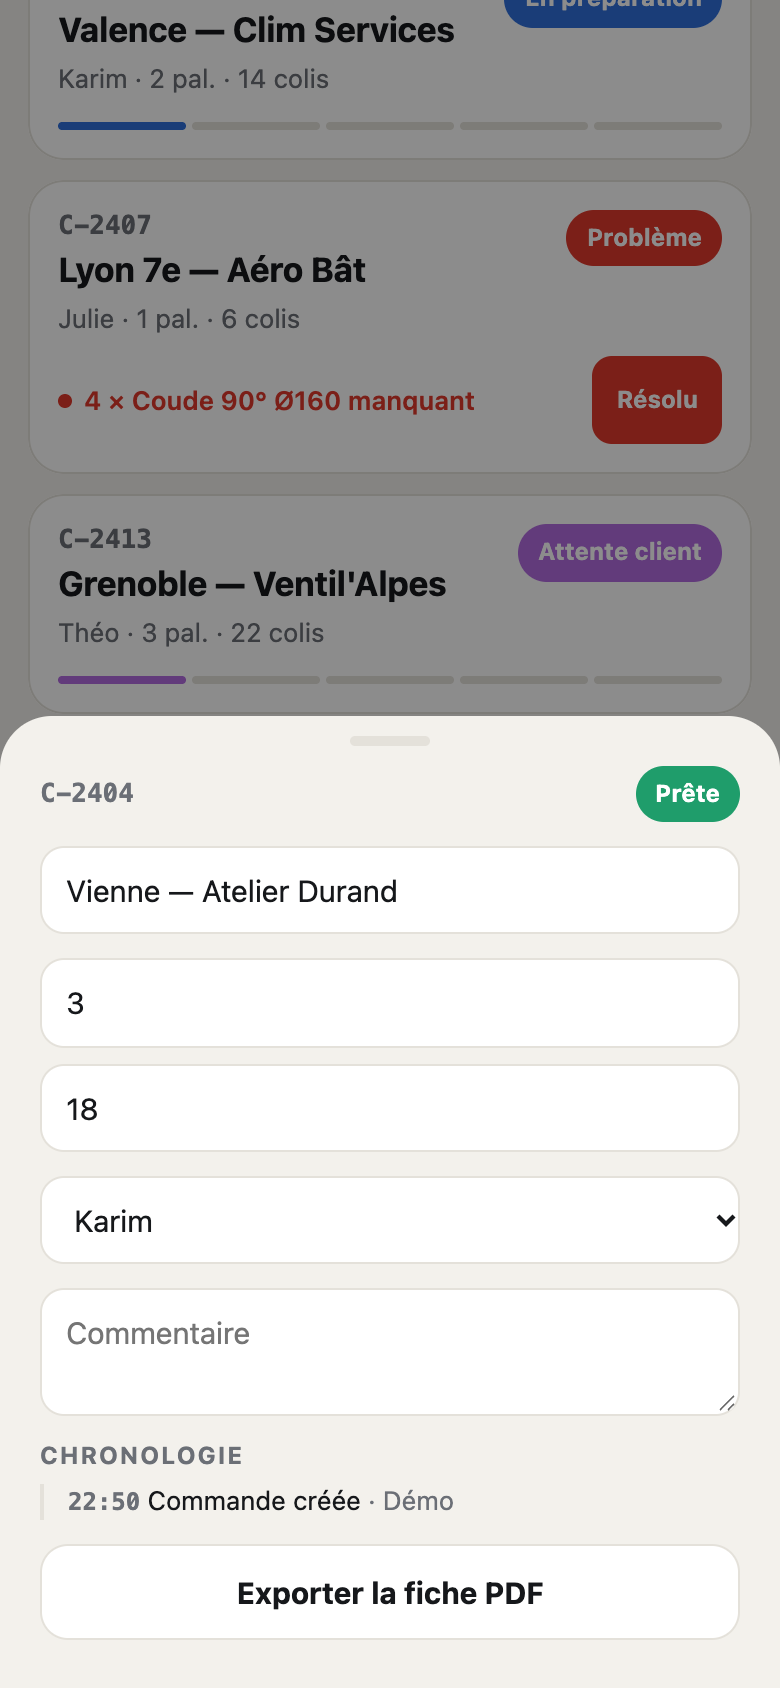
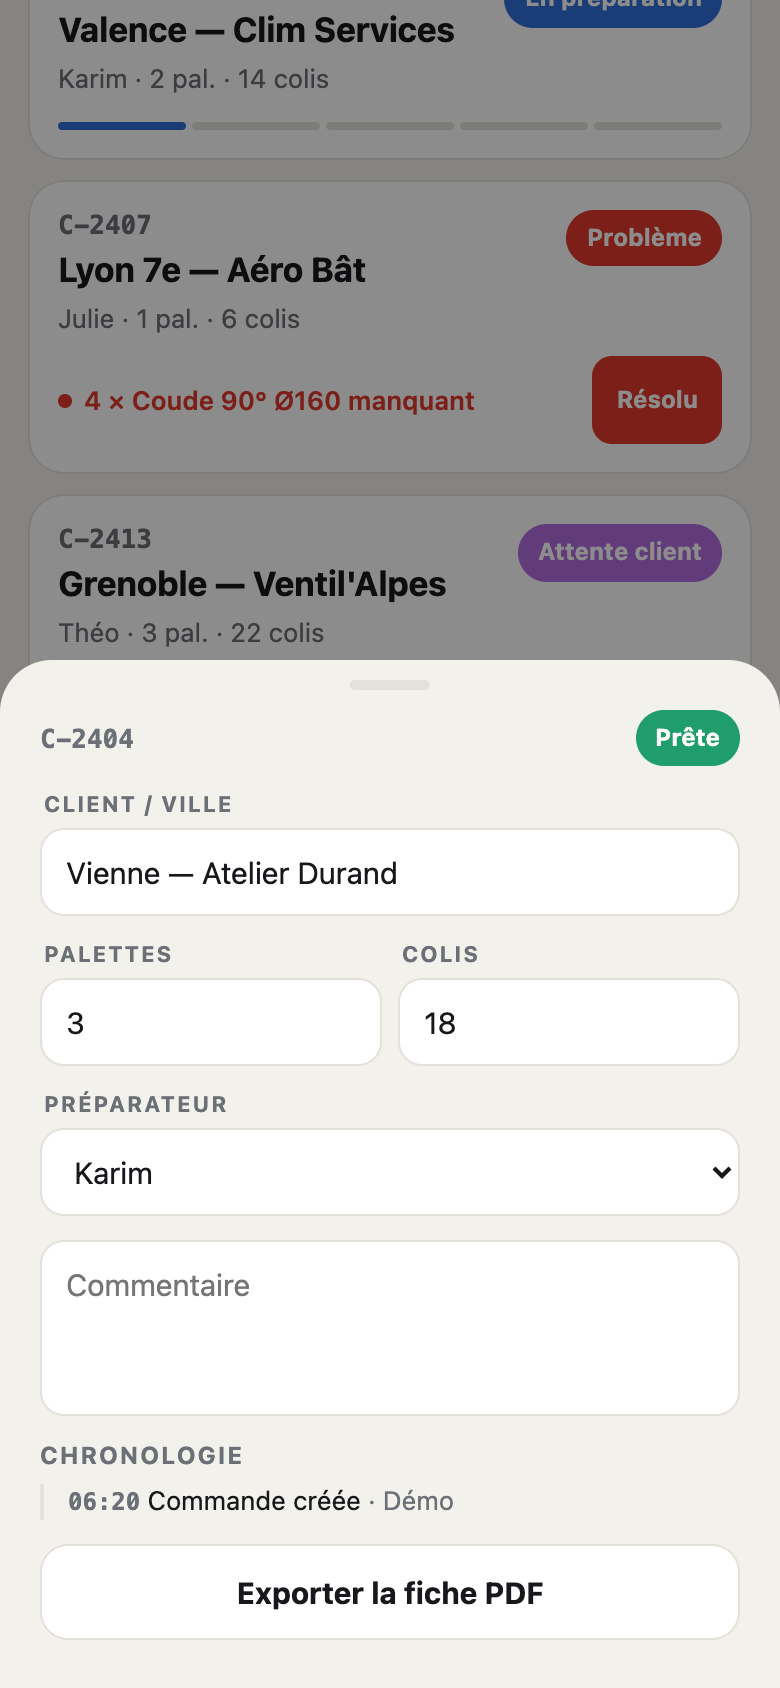
Corrections visuelles : barre d'onglets, libellés fiche, notification

diff --git a/src/style.css b/src/style.css
@@ -29,7 +29,7 @@ h1{font-size:34px;letter-spacing:-.02em;margin-top:14px;font-weight:800}
 .chip.on{background:var(--acc);border-color:var(--acc);color:#fff}
 .search{padding:10px 20px 0}
 .sec{display:flex;justify-content:space-between;padding:14px 20px 8px;font-size:12px;font-weight:700;letter-spacing:.08em;text-transform:uppercase;color:var(--mut)}
-.list{padding:0 14px;display:flex;flex-direction:column;gap:10px}
+.list{padding:0 14px calc(120px + env(safe-area-inset-bottom));display:flex;flex-direction:column;gap:10px}
 .swipe{position:relative;border-radius:18px;overflow:hidden;touch-action:pan-y}
 .under{position:absolute;inset:0;display:flex;align-items:center;justify-content:space-between;padding:0 20px;color:#fff;font-weight:700;font-size:14px}
 .c{background:var(--card);border:1px solid var(--line);border-radius:18px;padding:14px;position:relative;display:grid;grid-template-columns:1fr auto;gap:4px 10px;user-select:none;-webkit-user-select:none;-webkit-touch-callout:none}
@@ -44,8 +44,8 @@ h1{font-size:34px;letter-spacing:-.02em;margin-top:14px;font-weight:800}
 .flag:before{content:"";flex:none;width:7px;height:7px;border-radius:50%;background:var(--bad)}
 .flag button{margin-left:auto;min-height:44px;padding:0 12px;border-radius:10px;background:var(--bad);color:#fff;font-size:12px;font-weight:700}
 .cancel .cli{text-decoration:line-through;opacity:.6}
-.tabbar{position:fixed;left:14px;right:14px;bottom:calc(14px + env(safe-area-inset-bottom));max-width:532px;margin:0 auto;height:64px;border-radius:22px;background:var(--ink);display:flex;align-items:center;justify-content:space-around;color:var(--bg);box-shadow:0 10px 30px rgba(0,0,0,.25);z-index:20}
-.tabbar button{display:flex;flex-direction:column;align-items:center;justify-content:center;gap:2px;font-size:11px;font-weight:600;opacity:.55;min-width:60px;color:var(--bg)}
+.tabbar{position:fixed;left:14px;right:14px;bottom:calc(14px + env(safe-area-inset-bottom));max-width:532px;margin:0 auto;height:64px;border-radius:22px;background:#16181b;border:1px solid rgba(255,255,255,.08);display:flex;align-items:center;justify-content:space-around;color:#f2f1ee;box-shadow:0 10px 30px rgba(0,0,0,.25);z-index:20}
+.tabbar button{display:flex;flex-direction:column;align-items:center;justify-content:center;gap:2px;font-size:11px;font-weight:600;opacity:.55;min-width:60px;color:#f2f1ee}
 .tabbar button.on{opacity:1}
 .tabbar svg{width:22px;height:22px}
 .tabbar .plus{width:52px;height:52px;border-radius:50%;background:var(--acc);color:#fff;opacity:1;font-size:30px;font-weight:300;display:grid;place-items:center;margin-top:-18px;box-shadow:0 6px 16px rgba(255,90,31,.5);min-width:0}
@@ -66,3 +66,9 @@ canvas.sig{width:100%;height:160px;border:1px dashed var(--mut);border-radius:14
 .truck{display:flex;flex-direction:column;gap:8px}
 .toast{position:fixed;top:calc(12px + env(safe-area-inset-top));left:50%;transform:translateX(-50%);background:var(--ink);color:var(--bg);padding:10px 16px;border-radius:99px;z-index:60;font-weight:600;font-size:13px}
 @media(prefers-reduced-motion:reduce){*{transition:none!important;animation:none!important}}
+
+.app::after{content:"";position:fixed;left:0;right:0;bottom:0;height:calc(110px + env(safe-area-inset-bottom));background:linear-gradient(to bottom,transparent,var(--bg) 55%);pointer-events:none;z-index:19}
+.toast{left:16px!important;right:16px;margin:0 auto;width:fit-content;max-width:calc(100% - 32px);text-align:center;white-space:normal}
+textarea{resize:none;min-height:88px}
+.flab{display:block;font-size:11px;font-weight:700;letter-spacing:.08em;text-transform:uppercase;color:var(--mut);margin:0 0 4px 2px}
+.btn:disabled{opacity:.45}

diff --git a/src/Sheets.jsx b/src/Sheets.jsx
@@ -83,9 +83,9 @@ export function DetailSheet({ o, onClose, team }) {
   return (
     <Sheet open onClose={() => { setEdit(null); onClose() }}>
       <div className="row"><span className="num">{o.num}</span><span className="st" style={{ '--s': STATUS[o.status].c, padding: '6px 10px', borderRadius: 99, color: '#fff', background: STATUS[o.status].c, fontSize: 12, fontWeight: 700 }}>{STATUS[o.status].l}</span></div>
-      <input value={e.client} onChange={set('client')} aria-label="Client" />
-      <div className="btns"><input type="number" value={e.pallets} onChange={set('pallets')} aria-label="Palettes" /><input type="number" value={e.parcels} onChange={set('parcels')} aria-label="Colis" /></div>
-      <select value={e.prep || ''} onChange={set('prep')} aria-label="Préparateur"><option value="">Sans préparateur</option>{act(team).map((p) => <option key={p.id} value={p.id}>{p.name}</option>)}</select>
+      <label><span className="flab">Client / ville</span><input value={e.client} onChange={set('client')} aria-label="Client" /></label>
+      <div className="btns"><label style={{ flex: 1 }}><span className="flab">Palettes</span><input type="number" inputMode="numeric" value={e.pallets} onChange={set('pallets')} aria-label="Palettes" /></label><label style={{ flex: 1 }}><span className="flab">Colis</span><input type="number" inputMode="numeric" value={e.parcels} onChange={set('parcels')} aria-label="Colis" /></label></div>
+      <span className="flab" style={{ marginBottom: -8 }}>Préparateur</span><select value={e.prep || ''} onChange={set('prep')} aria-label="Préparateur"><option value="">Sans préparateur</option>{act(team).map((p) => <option key={p.id} value={p.id}>{p.name}</option>)}</select>
       <textarea placeholder="Commentaire" value={e.comment} onChange={set('comment')} />
       {edit && <button className="btn acc" onClick={save}>Enregistrer</button>}
       {o.photos.length > 0 && <div className="photos">{o.photos.map((p, i) => <img key={i} src={p} alt="" />)}</div>}

diff --git a/src/Trucks.jsx b/src/Trucks.jsx
@@ -69,7 +69,7 @@ export function Trucks({ s, date }) {
         {ready.map((o) => <button key={o.id} className="opt" onClick={() => setSel(sel.includes(o.id) ? sel.filter((x) => x !== o.id) : [...sel, o.id])}>
           <span><b className="num">{o.num}</b> {o.client}</span><span>{sel.includes(o.id) ? '✓' : '○'}</span></button>)}
         <div className="lbl">Livreur</div>
-        {drivers.map((d) => <button key={d.id} className="opt" data-driver={d.name} onClick={() => { if (!sel.length) return; loadTo(sel, d.id, dock || null); toast(sel.length + ' chargée(s) → ' + d.name); setPickFor(null) }}>
+        {drivers.map((d) => <button key={d.id} className="opt" data-driver={d.name} onClick={() => { if (!sel.length) return; loadTo(sel, d.id, dock || null); toast((sel.length > 1 ? sel.length + ' commandes chargées' : 'Commande chargée') + ' · ' + d.name); setPickFor(null) }}>
           <b>{d.name}</b><span className="meta">{day.filter((o) => o.driver === d.id).length} cmd</span></button>)}
       </Sheet>
       <Sheet open={!!sigFor} onClose={() => setSigFor(null)}>
